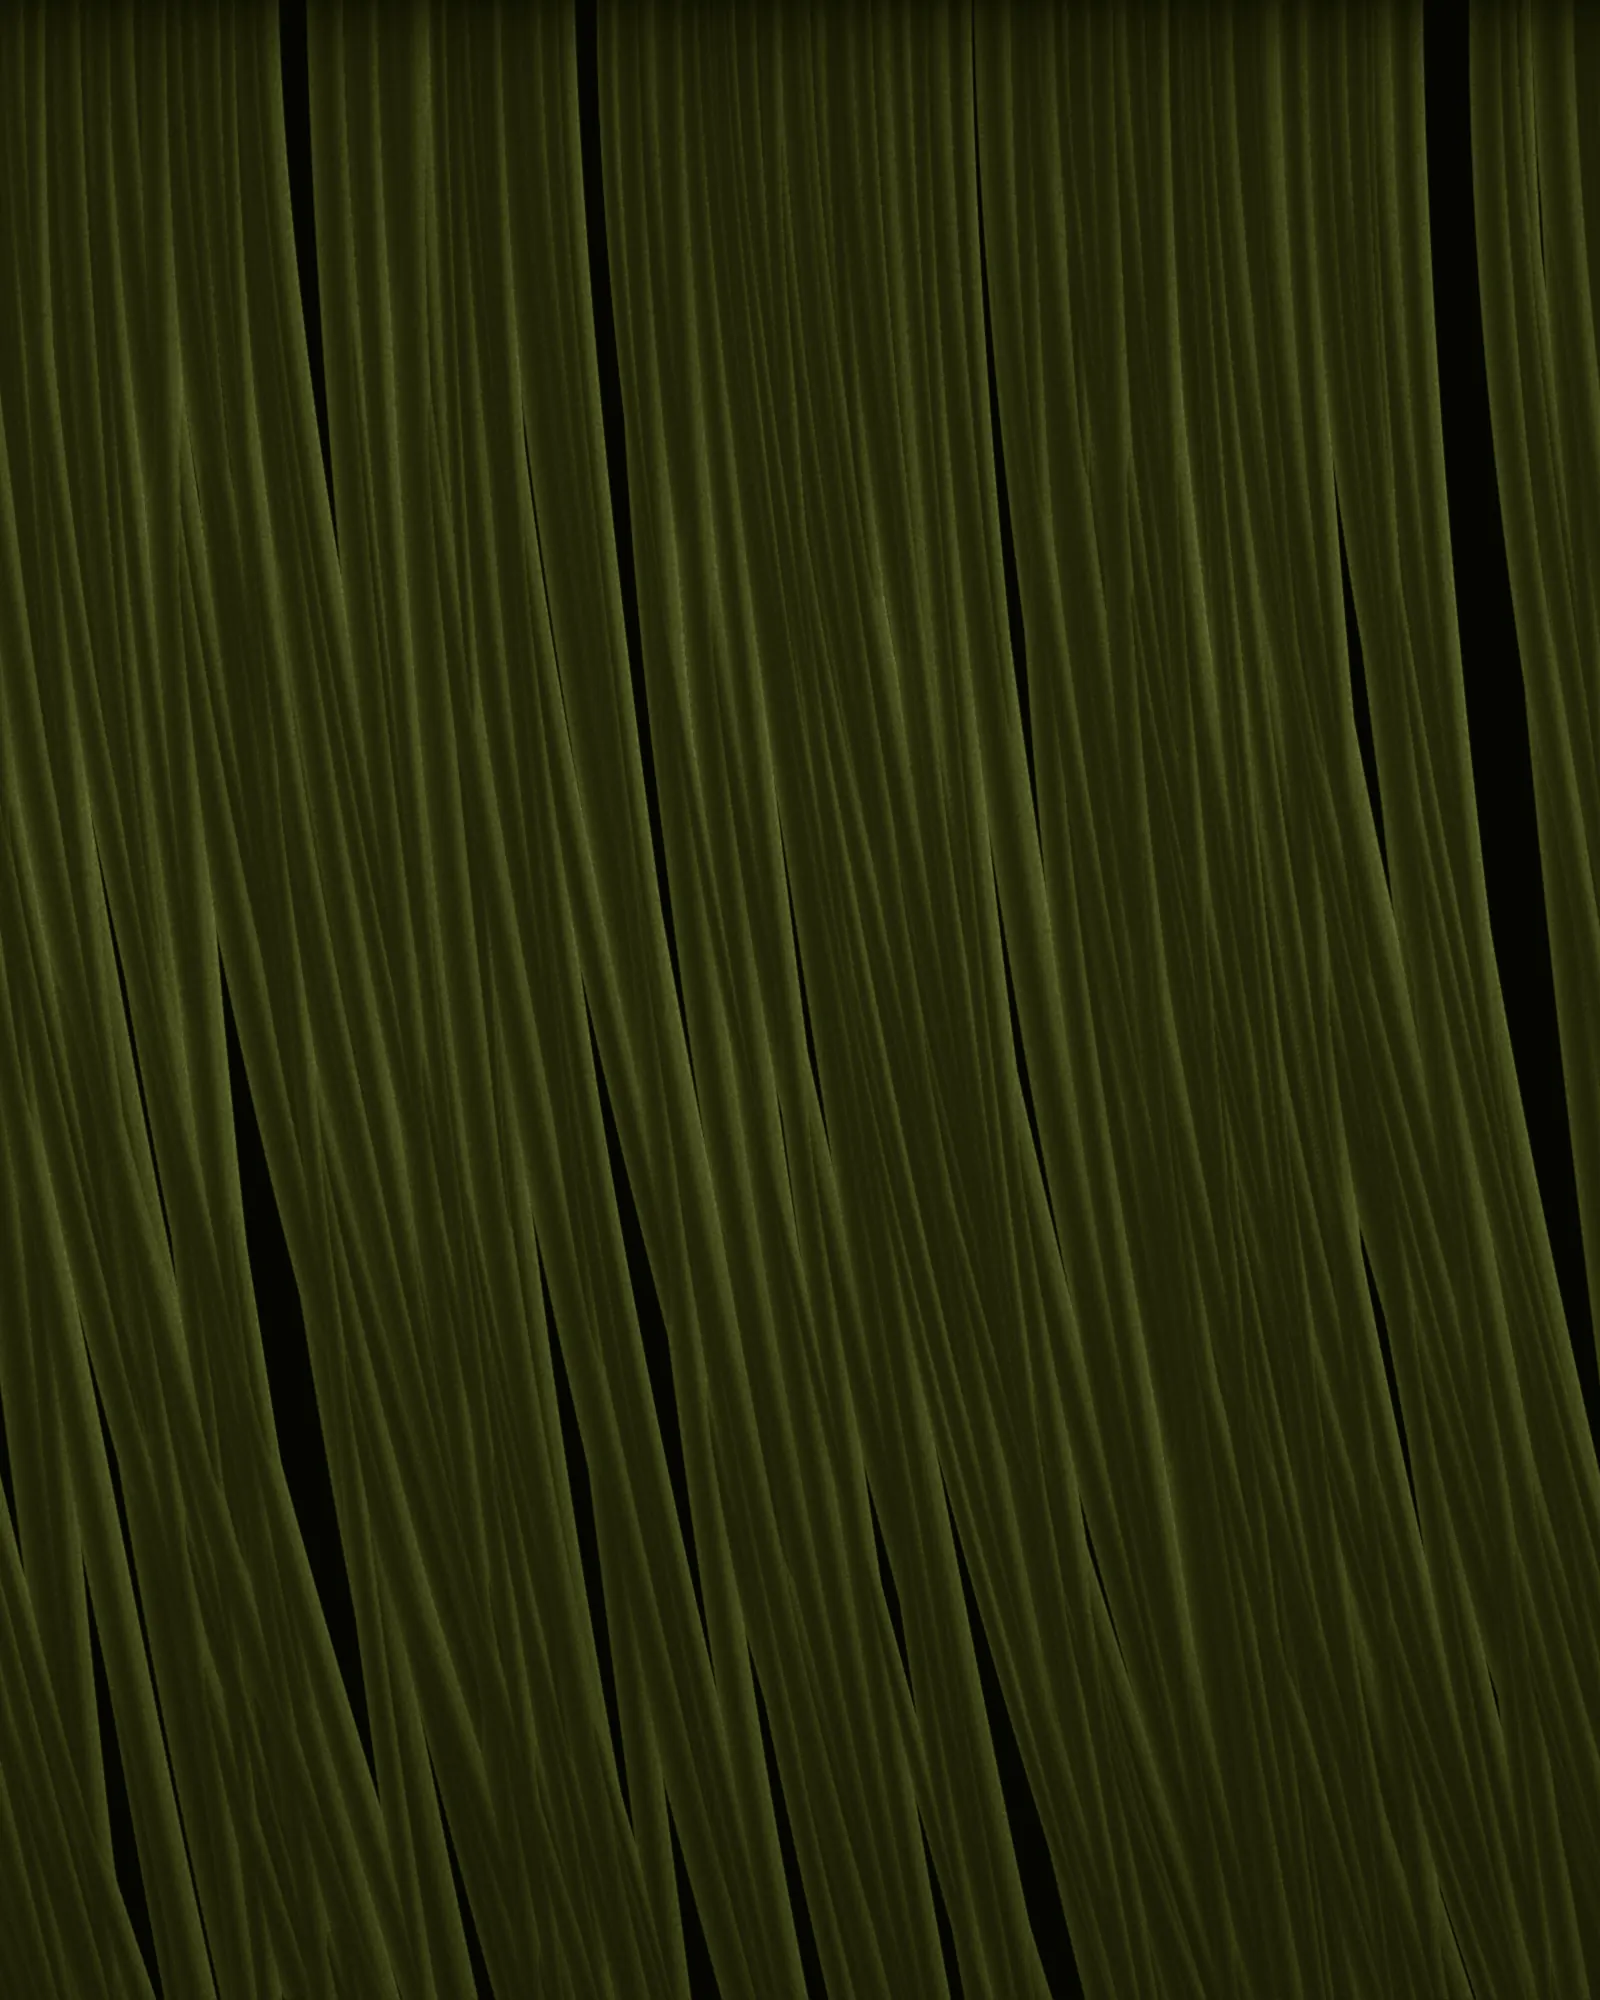
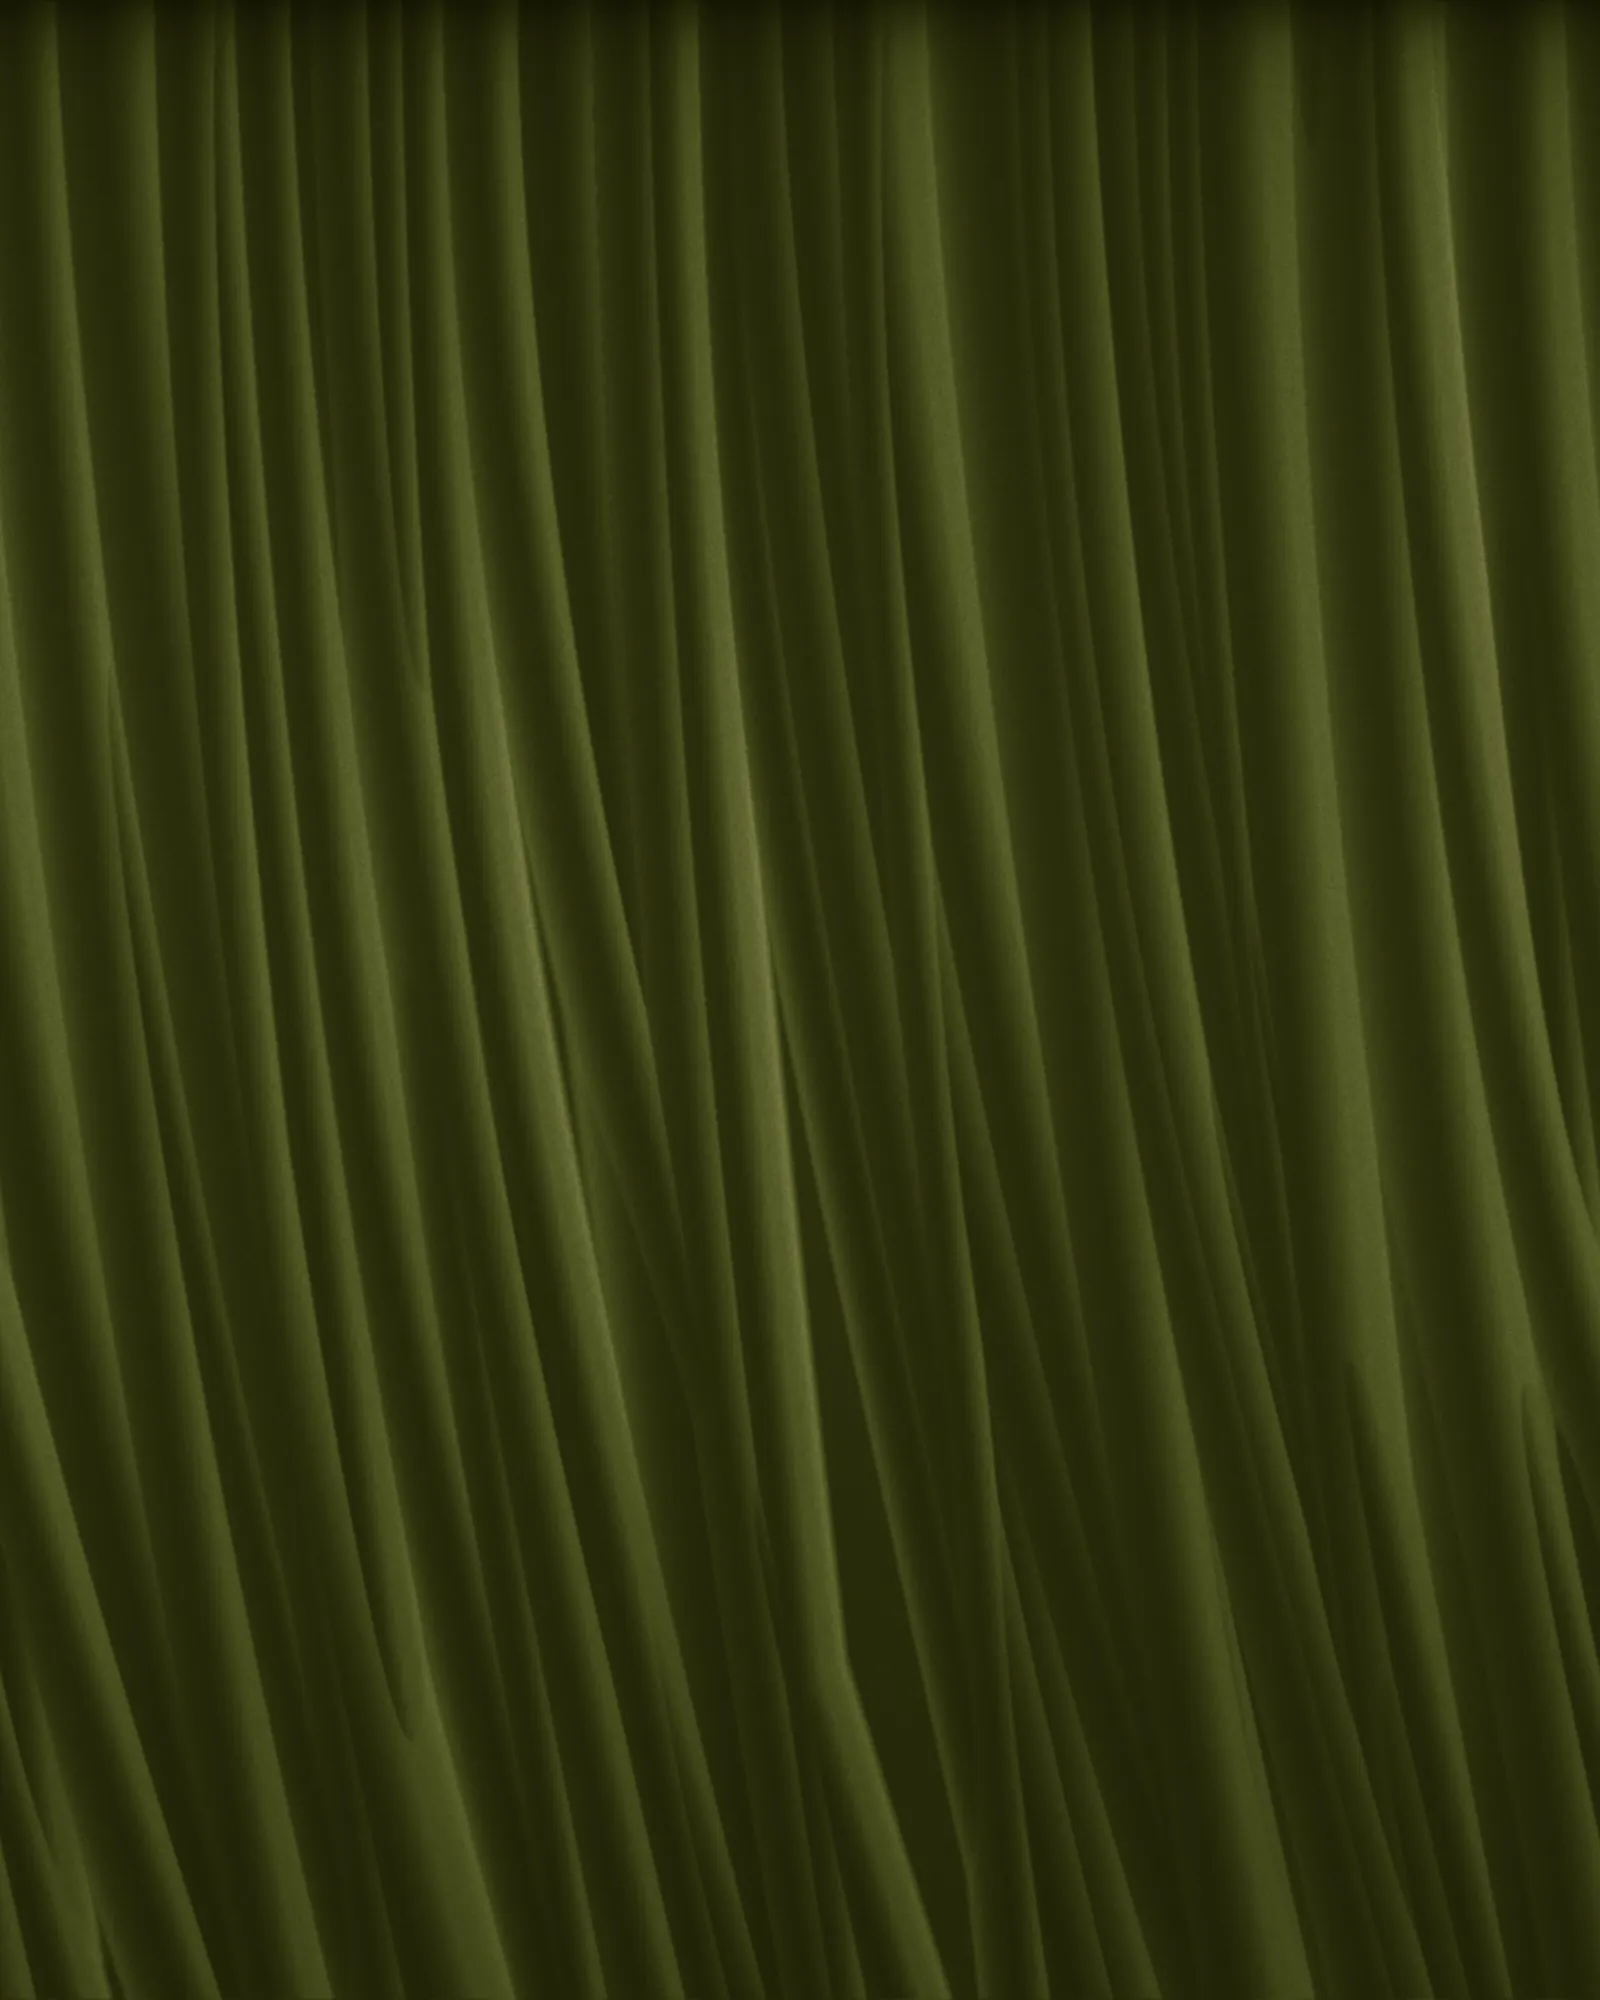
Soften velvet folds and warm the program frame tone
Velvet: fewer, wider folds with soft shadowed seams instead of black gaps.
Program frame: antique warm-silver gradient instead of cool chrome.

Claude-Session: https://claude.ai/code/session_01SfG6WR7fM6gyqk4v9WRtGz

diff --git a/tools/art/frame.html b/tools/art/frame.html
@@ -9,11 +9,11 @@
 <svg id="art" viewBox="0 0 760 1300" xmlns="http://www.w3.org/2000/svg">
   <defs>
     <linearGradient id="g1" x1="0" y1="0" x2="1" y2="1">
-      <stop offset="0" stop-color="#e9e5dc"/>
-      <stop offset=".3" stop-color="#9d9484"/>
-      <stop offset=".55" stop-color="#d6cfc2"/>
-      <stop offset=".8" stop-color="#7b7163"/>
-      <stop offset="1" stop-color="#bfb7a8"/>
+      <stop offset="0" stop-color="#ece4d6"/>
+      <stop offset=".3" stop-color="#9a8a73"/>
+      <stop offset=".55" stop-color="#d8cbb6"/>
+      <stop offset=".8" stop-color="#76654f"/>
+      <stop offset="1" stop-color="#c0b199"/>
     </linearGradient>
     <filter id="metal" x="-10%" y="-10%" width="120%" height="120%" color-interpolation-filters="sRGB">
       <feGaussianBlur in="SourceAlpha" stdDeviation="4.5" result="b"/>

diff --git a/tools/velvet.py b/tools/velvet.py
@@ -30,23 +30,23 @@ def tubes(n, tilt, wmin, wmax):
     return best, dval
 
 
-h, dval = tubes(120, 320, 11, 26)
+h, dval = tubes(38, 300, 44, 96)
 dval = np.clip(dval, 0, 1)
 nz = np.sqrt(1 - dval ** 2)                                 # нормаль трубки к зрителю
 side = np.sign(np.gradient(np.pad(h, ((0, 0), (1, 1)), mode='wrap'), axis=1)[:, 1:-1])
 
-# бархат: середина трубки тёмная, края вспыхивают ворсом, стыки трубок уходят в черноту
+# бархат: середина трубки тёмная, края вспыхивают ворсом, стыки трубок – мягкая тень без провалов
 sheen = (1 - nz) ** 1.05
 lit = np.clip(1 - np.abs(dval * side + .45) / .5, 0, 1)    # мягкий блик на левой стороне трубки
-v = .21 + .08 * nz + 1.15 * sheen * (.72 + .28 * (side < 0)) + .16 * lit
-v *= np.clip((1 - dval) / .06, 0, 1) ** .8                  # стык двух трубок
-v *= .55 + .45 * np.clip(h, 0, 1)                           # дальние трубки темнее
-v = gaussian_filter(v, .6, mode='wrap')
+v = .26 + .1 * nz + 1.1 * sheen * (.72 + .28 * (side < 0)) + .2 * lit
+v *= .5 + .5 * np.clip((1 - dval) / .12, 0, 1) ** .8     # стык двух трубок
+v *= .72 + .28 * np.clip(h, 0, 1)                           # дальние трубки темнее
+v = gaussian_filter(v, 1.3, mode='wrap')
 v *= .78 + .35 * np.exp(-((Y - .4) / .55) ** 2)
 v *= 1 - .5 * np.exp(-Y / .02)
 
 grain = gaussian_filter(rng.normal(0, 1, (H, W)), .7, mode='wrap')
-v = np.clip(v * (1 + .09 * grain), 0, 1.2)
+v = np.clip(v * (1 + .045 * grain), 0, 1.2)
 
 # тонирование: почти чёрная олива в тенях, болотная середина, светлый мох на бликах
 stops = [(0, (5, 6, 0)), (.2, (22, 24, 4)), (.42, (44, 47, 12)), (.65, (78, 83, 34)), (.85, (118, 123, 66)), (1.2, (170, 174, 116))]
